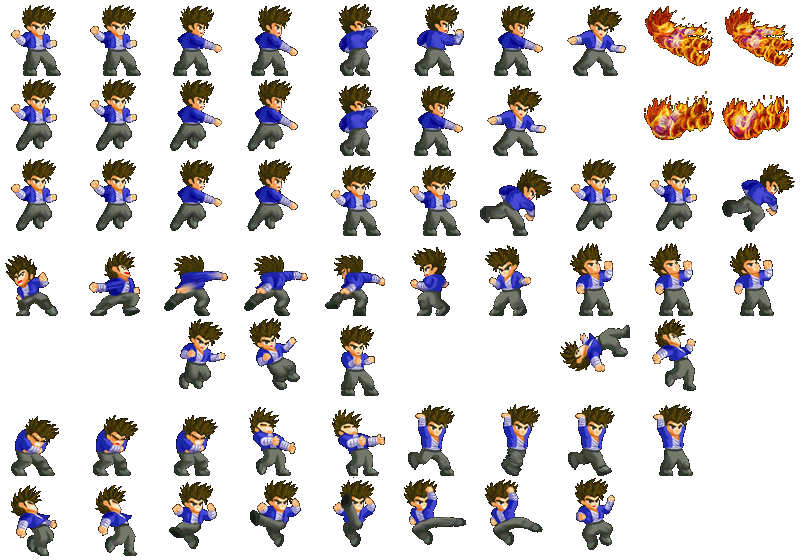
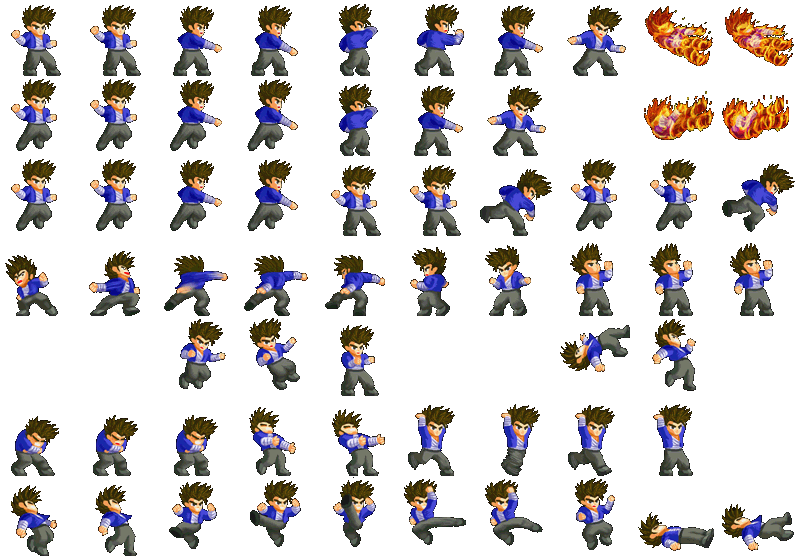
Firen Added :)

Changed region(s): [[0.7812, 0.8804, 1.0, 1.0]]

diff --git a/LF2/src/Common/Character.cpp b/LF2/src/Common/Character.cpp
@@ -104,6 +104,13 @@ void Character::Update(const double dt, sf::RenderWindow& window) {
 	if (TimeSinceLastState < MAX_LAST_TIME) {
 		TimeSinceLastState += dt;
 	}
+	if (InvincibleTime < 10) {
+		InvincibleTime += dt;
+		if (InvincibleTime > 0.75) {
+			Invincible = false;
+			DamageHitBox.IsActive = true;
+		}
+	}
 	switch (CurrentState) {
 	case IDLE:
 		AddForce(dt);
@@ -260,7 +267,7 @@ void Character::Animate(sf::RenderWindow& window, const double dt) { //give it a
 		State_Manager.ForceStateChange(IDLE);
 		CorrectIndex = 0;
 	}
-	sf::Sprite* current = &CurrentSheet->Sprites[CorrectIndex];
+	sf::Sprite *current = &CurrentSheet->Sprites[CorrectIndex];
 	/*sf::CircleShape circle;
 	circle.setPosition(sf::Vector2f(Position.get_x(), Position.get_y()));
 	circle.setRadius(2);
@@ -273,7 +280,6 @@ void Character::Animate(sf::RenderWindow& window, const double dt) { //give it a
 	}
 	current->setScale(Scale.get_x()*Direction, Scale.get_y());
 	current->setPosition(sf::Vector2f(Position.get_x(), Position.get_y()));
-	window.draw(*current);
 	if (CurrentSheet->HasHitBox[CorrectIndex]) {
 		AttackHitBox.IsActive = true;
 		int dx = CurrentSheet->HBData[CorrectIndex].offset.get_x() * Direction;
@@ -286,6 +292,12 @@ void Character::Animate(sf::RenderWindow& window, const double dt) { //give it a
 	else {
 		AttackHitBox.IsActive = false;
 	}
+	if (Invincible) {
+		if (CorrectIndex % 2 == 0 && CurrentState != FALLINGBACK && CurrentState != FALLINGFRONT) {
+			return;
+		}
+	}
+	window.draw(*current);
 	DamageHitBox.DrawBox(window);
 	//window.draw(circle);
 }
@@ -303,6 +315,7 @@ void Character::OnCollision(int otherID, int selfID) {
 		}
 		if (HitBoxIDArray[otherID]->Type == HB_TYPE_FIRE) {
 			CurrentSheet = &BurningSheet;
+			SetInvincible();
 		}
 	}
 	else if (HitBoxIDArray[otherID]->Type == HB_TYPE_ATTACK && HitBoxIDArray[selfID]->Type == HB_TYPE_DAMAGE) {
@@ -337,14 +350,10 @@ void Character::FallFront(int SpeedX) {
 }
 
 void Character::FallBackCalculations(const double dt, const double t) {
-	if (t > 1.9) {
-		DamageHitBox.IsActive = true;
-		return;
-	}
 	if (t > FALL_DURATION) {
+		SetInvincible();
 		Stop();
 		Position = LastPosition;
-		DamageHitBox.IsActive = false;
 		return;
 	}
 	Velocity = Velocity + GravityVector * (dt*FALL_GRAVITY_SCALE);
@@ -352,18 +361,20 @@ void Character::FallBackCalculations(const double dt, const double t) {
 }
 
 void Character::FallFrontCalculations(const double dt, const double t) {
-	if (t > 1.9) {
-		DamageHitBox.IsActive = true;
-		return;
-	}
 	if (t > FALL_DURATION) {
+		SetInvincible();
 		Stop();
 		Position = LastPosition;
-		DamageHitBox.IsActive = false;
 		return;
 	}
 	Velocity = Velocity - GravityVector * (dt * FALL_GRAVITY_SCALE);
 	Translate(dt);
+}
+
+void Character::SetInvincible() {
+	Invincible = true;
+	DamageHitBox.IsActive = false;
+	InvincibleTime = 0;
 }
 
 void Character::SetControls(Controls control) {

diff --git a/LF2/src/Players/Firen/Firen.cpp b/LF2/src/Players/Firen/Firen.cpp
@@ -4,7 +4,7 @@ sf::Texture FirenTexFile0;
 sf::Texture FirenTexFile1;
 
 const std::vector<RealVector2D> IdleLocations = { {0,0}, {80,0}, {160,0}, {240,0} }; //x,y
-const std::vector <double> IdleTimes = { 0.3,0.6,0.9,1.2 };
+const std::vector <double> IdleTimes = { 0.1,0.2,0.3,0.4 };
 
 const std::vector<RealVector2D> WalkingLocations = { {320,0}, {400,0}, {480,0}, {560,0}, {480,0}, {400,0} };//x,y
 const std::vector <double> WalkingTimes = { 0.15,0.3,0.45,0.6,0.75,0.9 };
@@ -45,6 +45,9 @@ const std::vector <double> SpecialAttack1Times = { 0.1,0.2,0.3,0.4,0.6 };
 const std::vector<RealVector2D> SpecialAttack2Locations = { {0,175}, {80,175}, {160,175}, {80,175}};
 const std::vector <double> SpecialAttack2Times = { 0.1,0.2,0.3,0.4};
 
+const std::vector<RealVector2D> BurningLocations = { {560,240}, {560,480}, {240,240},{315,240} }; //x,y
+const std::vector <double> BurningTimes = { 0.25,0.5,0.7,2 };
+
 Firen::Firen() {
 	DamageHitBox = HitBox(Position, 42, 74, HB_TYPE_DAMAGE);
 	DamageHitBox.AssignPlayer(this);
@@ -75,6 +78,7 @@ Firen::Firen() {
 	SpecialAttack2Sheet.AssignPlayer(this);
 	FallingBackSheet.AssignPlayer(this);
 	FallingFrontSheet.AssignPlayer(this);
+	BurningSheet.AssignPlayer(this);
 
 	//Sprite and Texture Loadindg{
 	if (FirenTexFile0.getSize() == sf::Vector2u(0, 0)) {
@@ -92,6 +96,7 @@ Firen::Firen() {
 	Getting_HitSheet.AssignTextures(FirenTexFile0, Getting_HitLocations, Getting_HitTimes, 80, 80);
 	FallingBackSheet.AssignTextures(FirenTexFile0, FallingBackLocations, FallingBackTimes, 75, 80);
 	FallingFrontSheet.AssignTextures(FirenTexFile0, FallingFrontLocations, FallingFrontTimes, 75, 80);
+	BurningSheet.AssignTextures(FirenTexFile0, BurningLocations, BurningTimes, 75, 80);
 
 	if (FirenTexFile1.getSize() == sf::Vector2u(0, 0)) {
 		FirenTexFile1.loadFromFile("Resource/Firen1.png");
@@ -110,6 +115,7 @@ Firen::Firen() {
 	//SpecialAttack2Sheet.OneTime = true;
 	FallingBackSheet.OneTime = true;
 	FallingFrontSheet.OneTime = true;
+	BurningSheet.OneTime = true;
 
 	//Assigning HitBoxes to Sheets
 	JumpingAttackSheet.AssignHitbox(2, { 8,15 }, 40, 31,200);

diff --git a/LF2/src/Players/Davis/Davis.cpp b/LF2/src/Players/Davis/Davis.cpp
@@ -4,7 +4,7 @@ sf::Texture DavisTexFile0;
 sf::Texture DavisTexFile1;
 sf::Texture DavisTexFile2;
 
-const std::vector <double> IdleTimes = { 0.3,0.6,0.9,1.2 };
+const std::vector <double> IdleTimes = { 0.1,0.2,0.3,0.4 };
 const std::vector<RealVector2D> IdleLocations = { {0,0}, {80,0}, {160,0}, {240,0} }; //x,y
 
 const std::vector <double> WalkingTimes = { 0.15,0.3,0.45,0.6,0.75,0.9 };
@@ -46,6 +46,9 @@ const std::vector <double> SpecialAttack1Times = { 0.1,0.2,0.3,0.4,0.6 };
 const std::vector<RealVector2D> SpecialAttack2Locations = { {0,248}, {80,248}, {160,248}, {240,248}, {320,248}, {400,248}, {480,248}, {560,248} };
 const std::vector <double> SpecialAttack2Times = { 0.1,0.2,0.3,0.4,0.5,0.6,0.7,0.85 };
 
+const std::vector<RealVector2D> BurningLocations = { {640,0}, {640,80}, {720,480}, {640,480} }; //x,y
+const std::vector <double> BurningTimes = { 0.25,0.5,0.7,2 };
+
 
 Davis::Davis() {
 	//HitBox Assignments
@@ -77,6 +80,7 @@ Davis::Davis() {
 	FallingFrontSheet.AssignPlayer(this);
 	SpecialAttack1Sheet.AssignPlayer(this);
 	SpecialAttack2Sheet.AssignPlayer(this);
+	BurningSheet.AssignPlayer(this);
 
 	//Sprite and Texture Loadindg
 	if (DavisTexFile0.getSize() == sf::Vector2u(0, 0)) {
@@ -99,6 +103,7 @@ Davis::Davis() {
 		DavisTexFile1.loadFromFile("Resource/Davis1.png");
 	}
 	JumpingAttackSheet.AssignTextures(DavisTexFile1, JumpingAttackLocations, JumpingAttackTimes, 80, 80);
+	BurningSheet.AssignTextures(DavisTexFile1, BurningLocations, BurningTimes, 80, 80);
 
 	if (DavisTexFile2.getSize() == sf::Vector2u(0, 0)) {
 		DavisTexFile2.loadFromFile("Resource/Davis2.png");
@@ -118,6 +123,7 @@ Davis::Davis() {
 	FallingFrontSheet.OneTime = true;
 	SpecialAttack1Sheet.OneTime = true;
 	SpecialAttack2Sheet.OneTime = true;
+	BurningSheet.OneTime = true;
 
 	//Assigning HitBoxes to Sheets
 	JumpingAttackSheet.AssignHitbox(3, { 5,10 }, 47, 29,200);

diff --git a/LF2/src/Players/Firen/FirenFireBall.cpp b/LF2/src/Players/Firen/FirenFireBall.cpp
@@ -73,18 +73,13 @@ void FirenFireBall::OnCollision(int otherID, int selfID) {
 			CurrentSheet = &EndSheet;
 			Velocity.SetMagnitude(0);
 		}
-		else if (other->Game_Object->GO_Type == GO_Projectile && other->Type == HB_TYPE_ATTACK && self->Type == HB_TYPE_FIRE) {
+		else if (other->Game_Object->GO_Type == GO_Projectile && (other->Type == HB_TYPE_ATTACK || other->Type == HB_TYPE_FIRE) && self->Type == HB_TYPE_FIRE) {
 			ProjectileBall* ball = (ProjectileBall*)other->Game_Object;
 			CurrentStrength -= ball->MaxStrength;
 			if (CurrentStrength <= 0) {
 				CurrentSheet = &EndSheet;
 				Velocity.SetMagnitude(0);
 			}
-		}
-		else if (other->Type == HB_TYPE_ATTACK && self->Type == HB_TYPE_REBOUND && HitBoxIDArray[otherID]->Game_Object->GO_Type == GO_Character) {
-			ReboundHitBox.IgnoreObjectID = HitBoxIDArray[otherID]->Game_Object->ID;
-			AttackHitBox.IgnoreObjectID = HitBoxIDArray[otherID]->Game_Object->ID;
-			Rebound();
 		}
 	}
 }

diff --git a/LF2/src/Common/Character.h b/LF2/src/Common/Character.h
@@ -40,6 +40,8 @@ public:
 	double JumpGravityFactor;
 	double TimeSinceLastState = 0;
 	bool JustStateChanged = false;
+	bool Invincible = false;
+	double InvincibleTime = 10;
 	AnimationSheet IdleSheet;
 	AnimationSheet WalkingSheet;
 	AnimationSheet RunningSheet;
@@ -87,6 +89,7 @@ public:
 	void FallFront(int SpeedX);
 	void FallBackCalculations(const double dt, const double t);
 	void FallFrontCalculations(const double dt, const double t);
+	void SetInvincible();
 	void SetControls(Controls control);
 	//-----------------------------------PLAYER-SPECIFIC-METHODS----------------------------------------
 

diff --git a/LF2/src/Players/Dennis/DennisBlueBall.cpp b/LF2/src/Players/Dennis/DennisBlueBall.cpp
@@ -68,7 +68,7 @@ void DennisBlueBall::OnCollision(int otherID, int selfID) {
 			CurrentSheet = &EndSheet;
 			Velocity.SetMagnitude(0);
 		}
-		else if (other->Game_Object->GO_Type == GO_Projectile && other->Type == HB_TYPE_ATTACK && self->Type == HB_TYPE_ATTACK) {
+		else if (other->Game_Object->GO_Type == GO_Projectile && (other->Type == HB_TYPE_ATTACK || other->Type == HB_TYPE_FIRE) && self->Type == HB_TYPE_ATTACK) {
 			ProjectileBall* ball = (ProjectileBall*)other->Game_Object;
 			CurrentStrength -= ball->MaxStrength;
 			if (CurrentStrength <= 0) {

diff --git a/LF2/src/Players/Davis/DavisBlueBall.cpp b/LF2/src/Players/Davis/DavisBlueBall.cpp
@@ -73,7 +73,7 @@ void DavisBlueBall::OnCollision(int otherID, int selfID) {
 			CurrentSheet = &EndSheet;
 			Velocity.SetMagnitude(0);
 		}
-		else if (other->Game_Object->GO_Type == GO_Projectile && other->Type == HB_TYPE_ATTACK && self->Type == HB_TYPE_ATTACK) {
+		else if (other->Game_Object->GO_Type == GO_Projectile && (other->Type == HB_TYPE_ATTACK || other->Type == HB_TYPE_FIRE) && self->Type == HB_TYPE_ATTACK) {
 			ProjectileBall* ball = (ProjectileBall*)other->Game_Object;
 			CurrentStrength -= ball->MaxStrength;
 			if (CurrentStrength <= 0) {

diff --git a/LF2/src/Players/Dennis/ChaseBall.cpp b/LF2/src/Players/Dennis/ChaseBall.cpp
@@ -151,7 +151,7 @@ void ChaseBall::OnCollision(int otherID, int selfID) {
 			CurrentSheet = &EndSheet;
 			Velocity.SetMagnitude(0);
 		}
-		else if (other->Game_Object->GO_Type == GO_Projectile && other->Type == HB_TYPE_ATTACK && self->Type == HB_TYPE_ATTACK) {
+		else if (other->Game_Object->GO_Type == GO_Projectile && (other->Type == HB_TYPE_ATTACK || other->Type == HB_TYPE_FIRE) && self->Type == HB_TYPE_ATTACK) {
 			ProjectileBall* ball = (ProjectileBall*)other->Game_Object;
 			CurrentStrength -= ball->MaxStrength;
 			if (CurrentStrength <= 0) {

diff --git a/LF2/src/Players/Dennis/Dennis.cpp b/LF2/src/Players/Dennis/Dennis.cpp
@@ -5,7 +5,7 @@ sf::Texture DennisTexFile1;
 sf::Texture DennisTexFile2;
 
 const std::vector<RealVector2D> IdleLocations = { {0,0}, {80,0}, {160,0}, {240,0} }; //x,y
-const std::vector <double> IdleTimes = { 0.3,0.6,0.9,1.2 };
+const std::vector <double> IdleTimes = { 0.1,0.2,0.3,0.4 };
 
 const std::vector<RealVector2D> WalkingLocations = { {320,0}, {400,0}, {480,0}, {560,0}, {480,0}, {400,0} };//x,y
 const std::vector <double> WalkingTimes = { 0.15,0.3,0.45,0.6,0.75,0.9 };

diff --git a/LF2/src/Common/HitBox.cpp b/LF2/src/Common/HitBox.cpp
@@ -86,6 +86,9 @@ void HitBox::SetScale(RealVector2D scale) {
 
 void HandleCollisions() {
 	for (int i = 0; i < HitBoxIDArray.size(); i++) {
+		if (!HitBoxIDArray[i]->IsActive) {
+			continue;
+		}
 		for (int j = i+1; j < HitBoxIDArray.size(); j++) {
 			if (HitBoxIDArray[i]->JustCollided(HitBoxIDArray[j])) {
 				// j is ID and i is also ID

diff --git a/LF2/src/Players/Firen/FirenGroundFire.cpp b/LF2/src/Players/Firen/FirenGroundFire.cpp
@@ -149,5 +149,6 @@ void GroundFireHitBox::Animate(sf::RenderWindow& window, const double dt) {
 }
 
 void GroundFireHitBox::OnCollision(int otherID, int selfID) {
-
+	CanCollide[otherID][selfID] = true;
+	CanCollide[selfID][otherID] = true;
 }

diff --git a/LF2/src/main.cpp b/LF2/src/main.cpp
@@ -10,6 +10,7 @@ const int resX = 1200;
 const int resY = 800;
 
 bool SortObjects(GameObject* g1, GameObject* g2) {
+
 	return (g1->Z_Position < g2->Z_Position);
 }
 Controls Player1Control;
